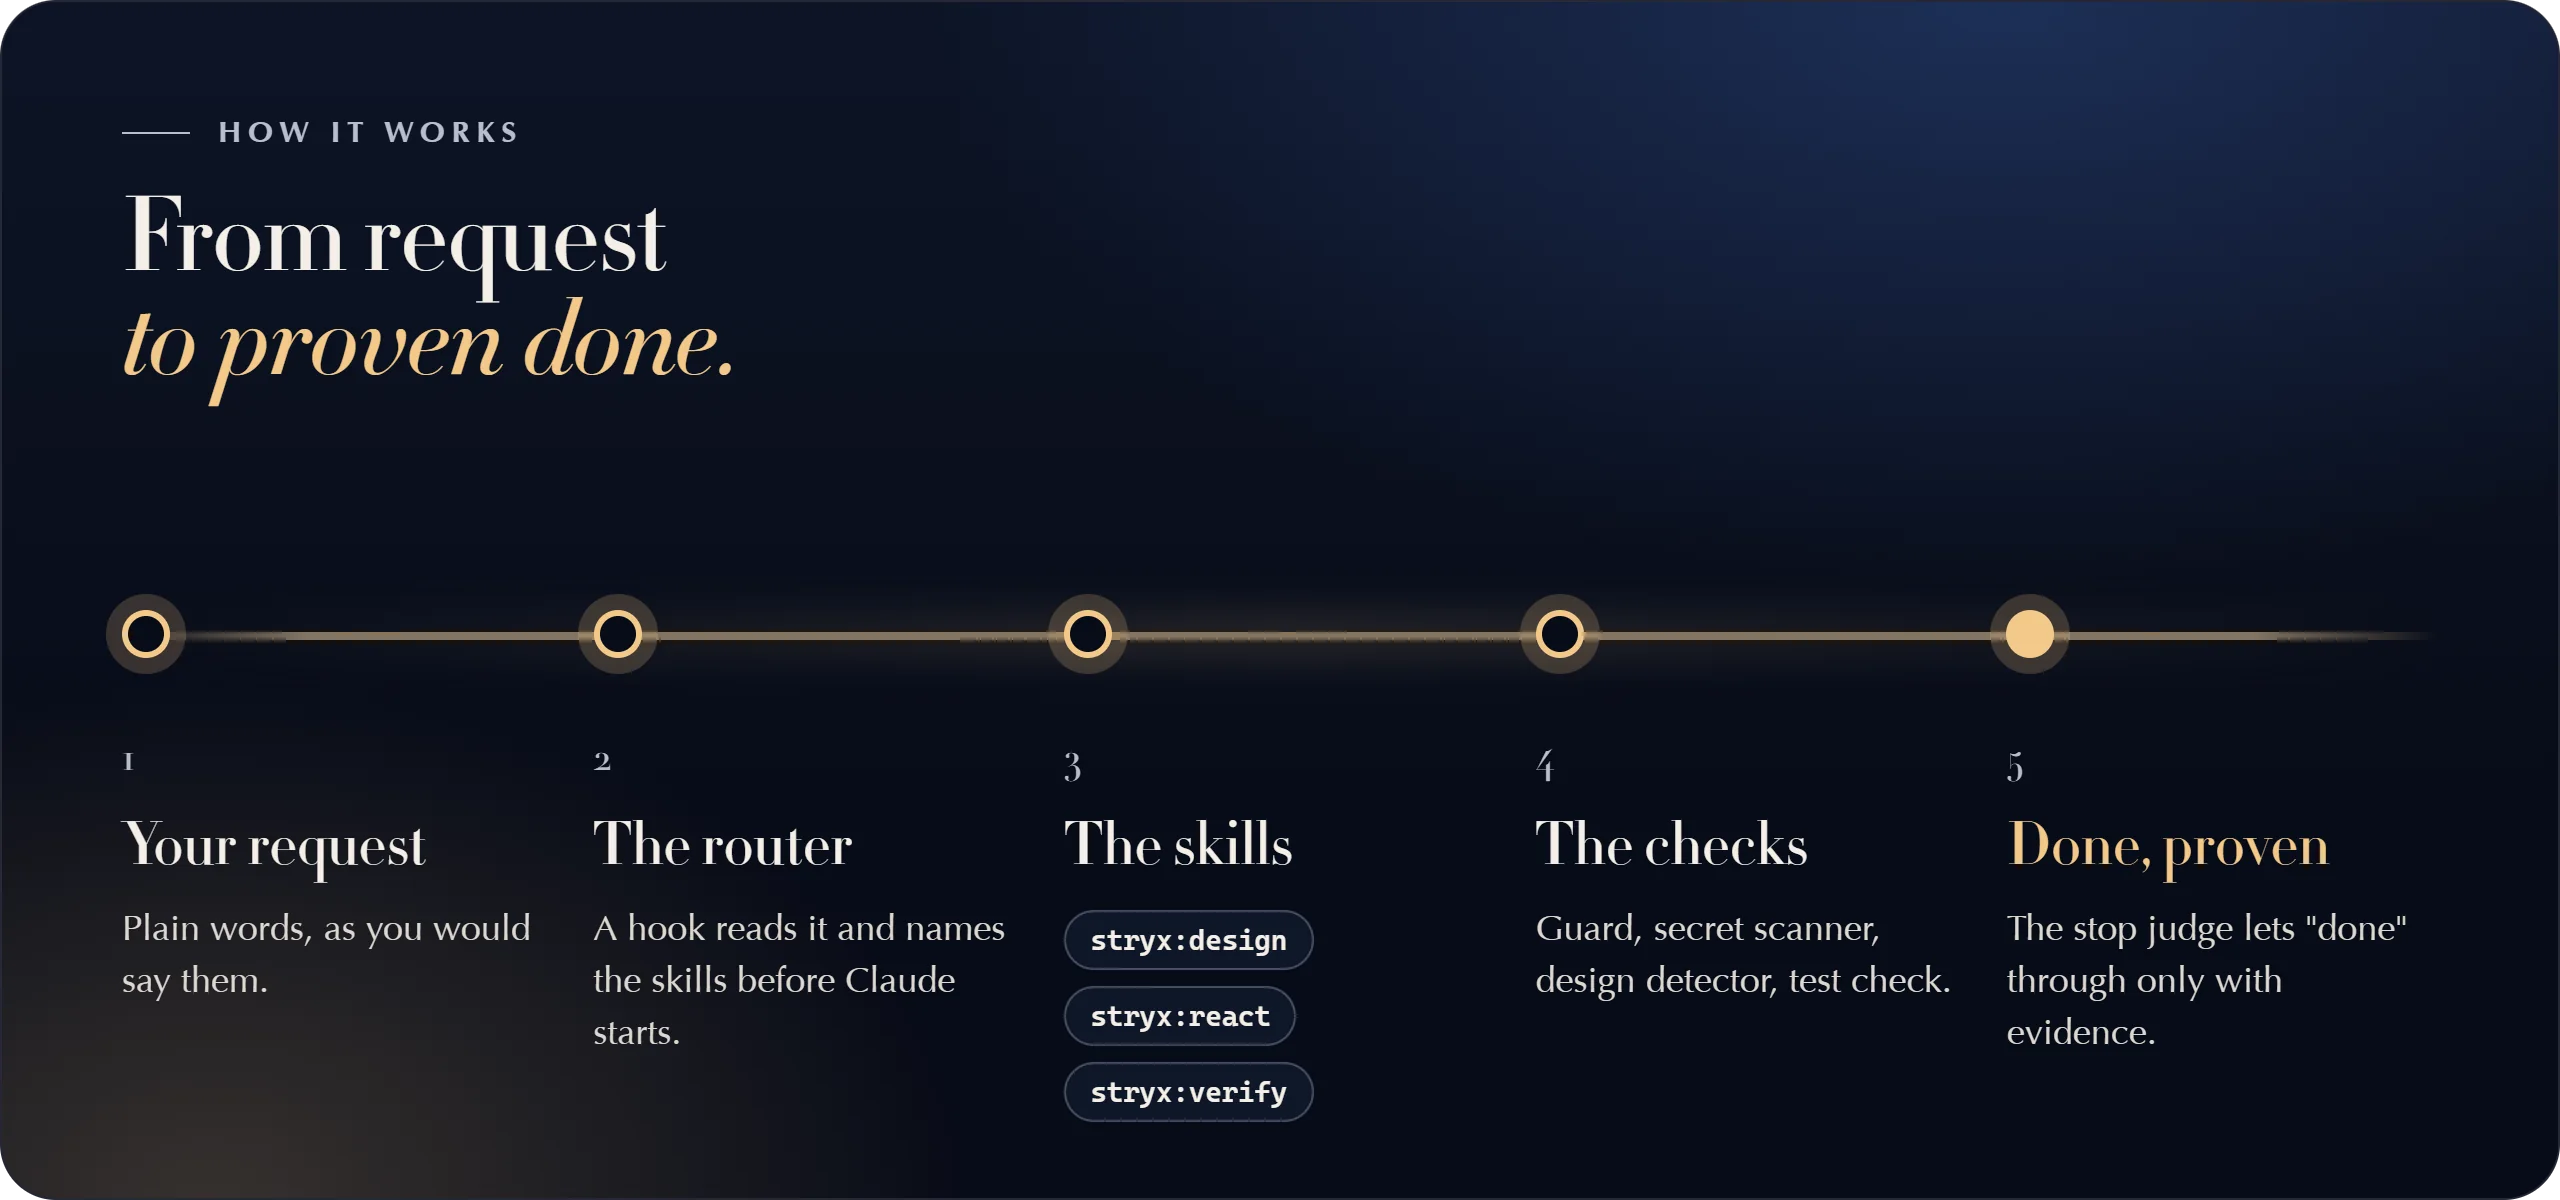
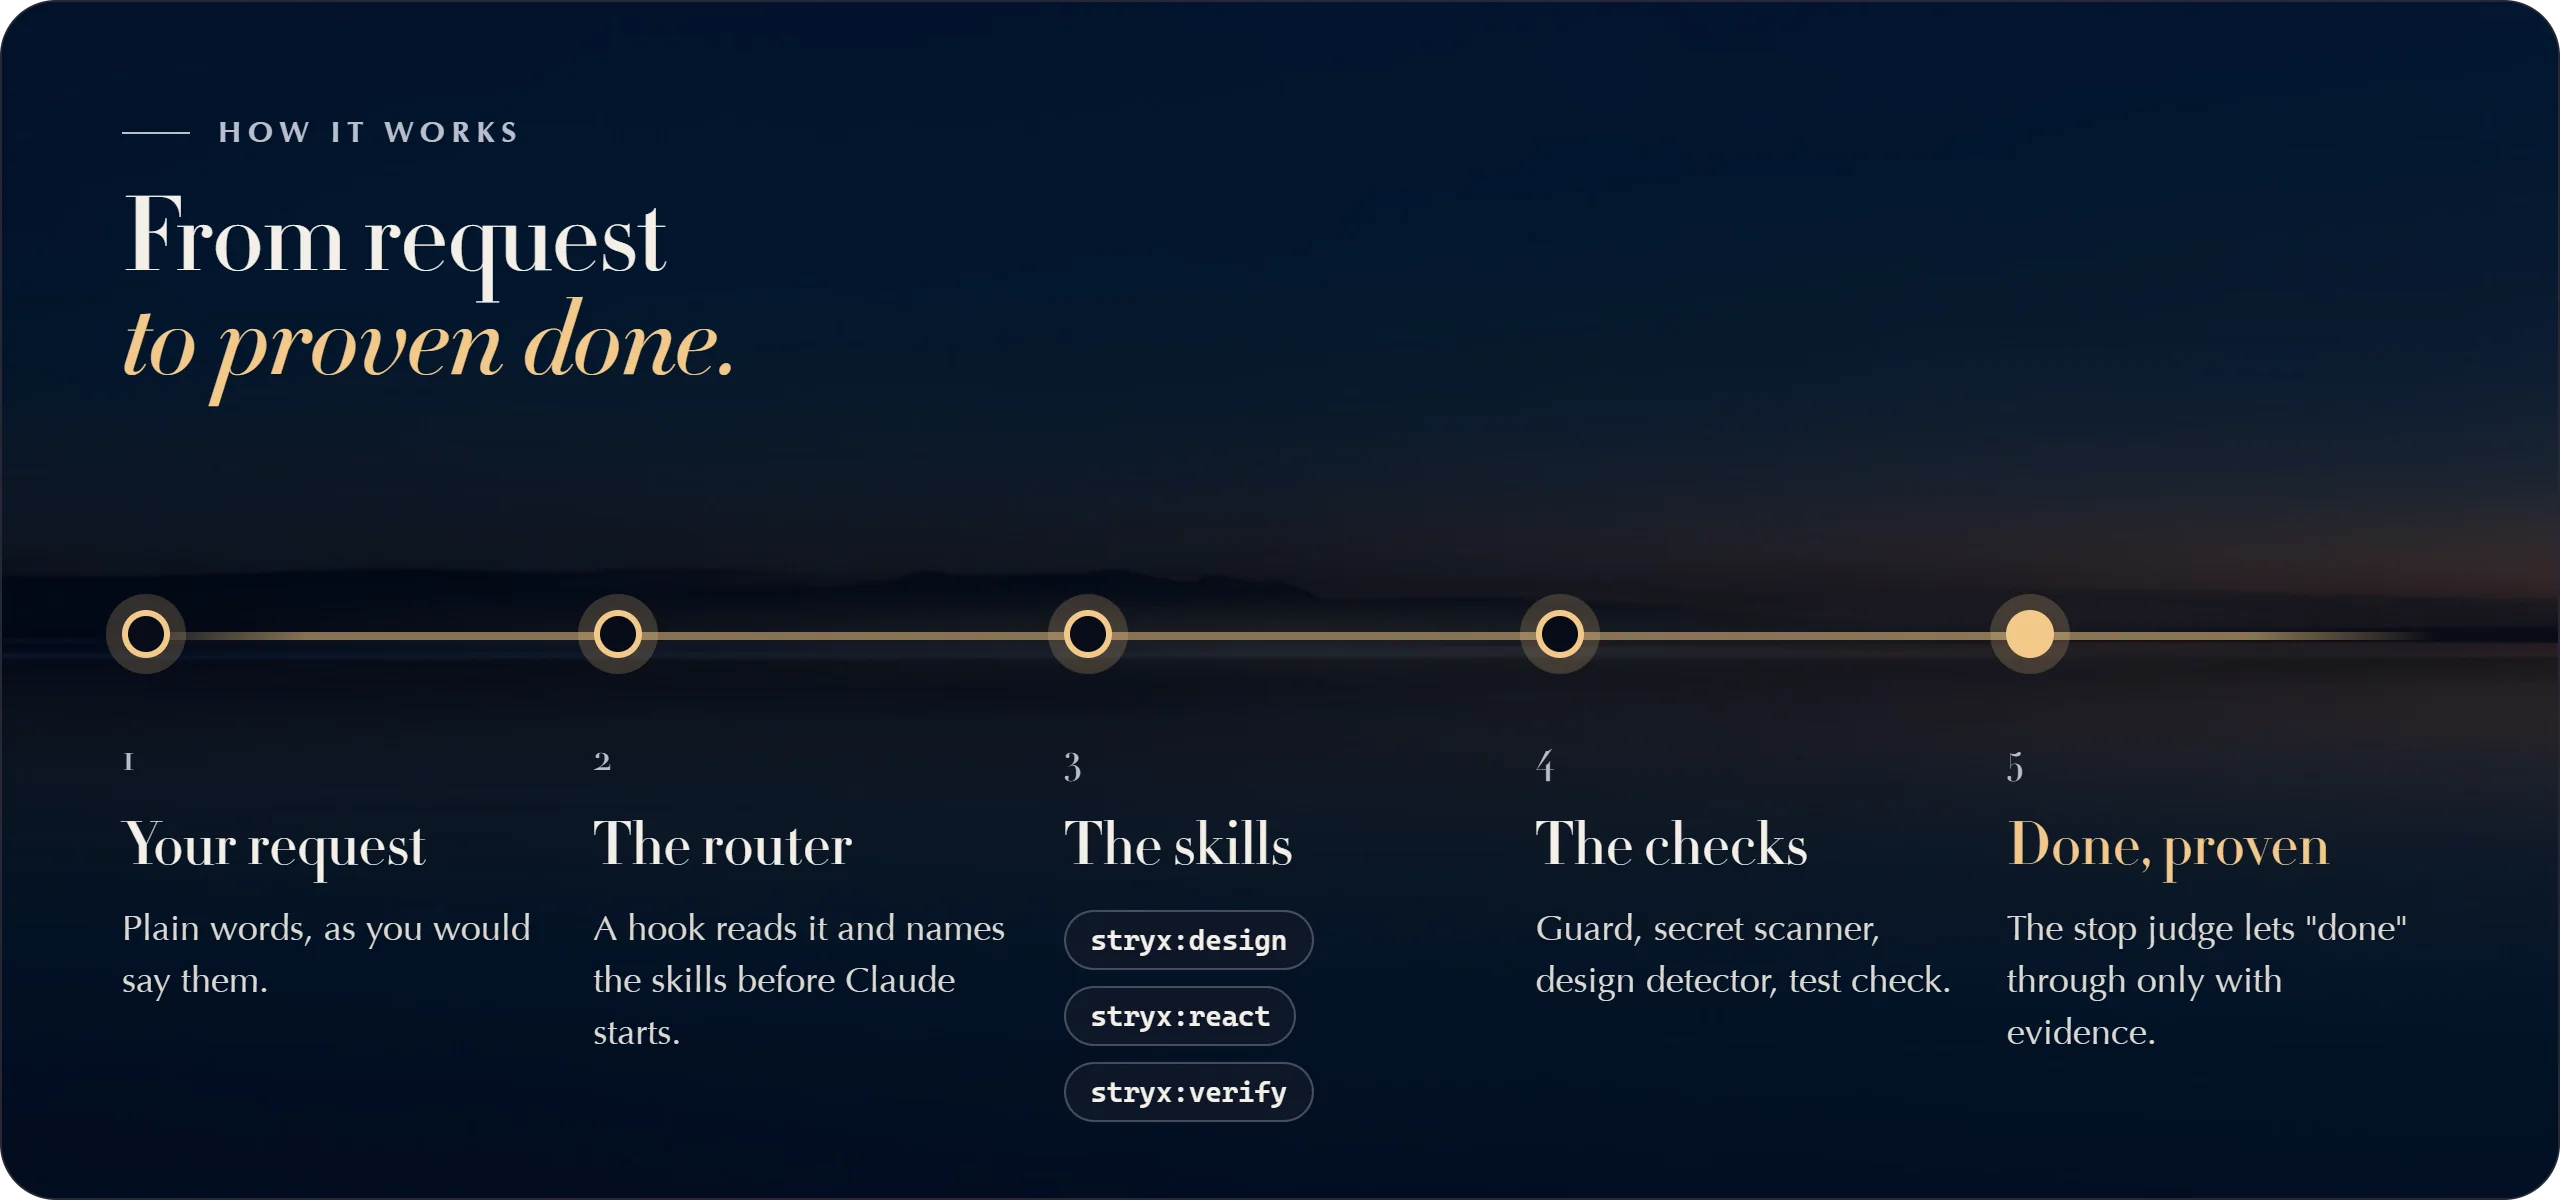
README art: painted night-lake backgrounds from the local image model
Hero, feature cards, flow and closing now sit on a GPU painting (qwen-image-2.1 q8, upscaled x4) of a tree of light beside a still lake, with all words kept as real text. Light variants wash the same painting in the paper tone; text contrast measured on the painted pixels.

Changed region(s): [[0.0, 0.74, 0.2812, 1.0], [0.625, 0.0, 0.9375, 0.1542], [0.75, 0.4008, 1.0, 0.6475]]

diff --git a/docs/assets/readme/src/art.template.html b/docs/assets/readme/src/art.template.html
@@ -19,6 +19,23 @@
       radial-gradient(42% 60% at 8% 100%, var(--color-sun-glow), transparent 72%),
       linear-gradient(180deg, var(--color-ground-2), var(--color-ground) 70%); }
   .art.frame { border-radius: 28px; border: 1px solid var(--color-line); }
+
+  /* ---------- GPU paintings as backgrounds (paint/*.jpg, made with brain make art) ---------- */
+  .bg { position: absolute; inset: 0; z-index: -1; background: var(--paint) var(--pos, center) / cover no-repeat; }
+  .bg::after { content: ""; position: absolute; inset: 0; background: var(--scrim); }
+  .dark .bg { --scrim: linear-gradient(90deg, color-mix(in oklab, var(--color-ground) 82%, transparent) 0%,
+      color-mix(in oklab, var(--color-ground) 50%, transparent) 46%, transparent 72%); }
+  /* light: the same painting, washed in the paper tone so dark text reads on it */
+  .bg { --scrim: linear-gradient(90deg, color-mix(in oklab, var(--color-ground) 97%, transparent) 0%,
+      color-mix(in oklab, var(--color-ground) 90%, transparent) 50%, color-mix(in oklab, var(--color-ground) 45%, transparent) 100%); }
+  .bg.even { --scrim: color-mix(in oklab, var(--color-ground) 93%, transparent); }
+  .dark .bg.even { --scrim: color-mix(in oklab, var(--color-ground) 35%, transparent); }
+  .hero-bg { --pos: center; }
+  .dark .hero-bg { --scrim: linear-gradient(90deg, color-mix(in oklab, var(--color-ground) 80%, transparent) 0%, color-mix(in oklab, var(--color-ground) 35%, transparent) 50%, transparent 70%),
+      linear-gradient(0deg, color-mix(in oklab, var(--color-ground) 88%, transparent) 0%, transparent 34%); }
+  .hero-bg { --scrim: linear-gradient(90deg, color-mix(in oklab, var(--color-ground) 97%, transparent) 0%, color-mix(in oklab, var(--color-ground) 88%, transparent) 52%, color-mix(in oklab, var(--color-ground) 42%, transparent) 100%),
+      linear-gradient(0deg, color-mix(in oklab, var(--color-ground) 97%, transparent) 0%, color-mix(in oklab, var(--color-ground) 80%, transparent) 30%, transparent 48%); }
+  .card { backdrop-filter: blur(14px) saturate(1.1); }
   .mono { font-family: var(--font-mono); }
   .amber { color: var(--color-sun); }
   .k { font: 700 15px/1.3 var(--font-text); letter-spacing: 0.22em; text-transform: uppercase; color: var(--color-ink-mute);
@@ -138,12 +155,13 @@
   .step .chip { font-size: 14px; padding: 7px 12px; }
 
   /* ---------- closing ---------- */
-  #closing { height: 440px; padding: 70px 72px; display: grid; grid-template-columns: 1fr 1.1fr; gap: 40px; align-items: center; }
+  #closing { height: 500px; padding: 60px 72px; display: grid; grid-template-columns: 640px; gap: 26px; align-content: center; }
+  #closing .con { width: 620px; }
   #closing h2 { font: 500 56px/1 var(--font-display); letter-spacing: -0.01em; }
   #closing h2 em { display: block; color: var(--color-sun); }
   #closing .fine2 { margin-top: 22px; font-size: 19px; white-space: nowrap; color: var(--color-ink-mute); }
   #closing .con .row { font-size: 17px; padding: 24px 22px; white-space: nowrap; }
-  #closing .btns { display: flex; gap: 14px; margin-top: 22px; }
+  #closing .btns { display: flex; gap: 14px; margin-top: 18px; }
   .pill { display: inline-flex; align-items: center; height: 58px; padding: 0 30px; border-radius: 999px; font: 700 19px/1 var(--font-text); }
   .pill.brand { background: var(--gradient-brand); color: var(--color-on-brand); }
   .pill.ghost { border: 1px solid var(--color-line-strong); color: var(--color-ink); background: var(--color-surface); }
@@ -159,7 +177,7 @@
     <h1>The lab's methods, <em>grown into one tree.</em></h1>
     <p class="lead">94 skills and 32 agents, each written for one kind of work. Claude loads the right one by itself, and nothing counts as done until a check proves it.</p>
   </div>
-  <div class="tree-box"><!--TREE--></div>
+  <div class="bg hero-bg" style="--paint:url(paint/hero.jpg)"></div>
   <div class="foot">
     <div class="spectrum"><span style="--band:var(--g0);flex:15"></span><span style="--band:var(--g1);flex:13"></span><span style="--band:var(--g2);flex:10"></span><span style="--band:var(--g3);flex:12"></span><span style="--band:var(--g4);flex:17"></span><span style="--band:var(--g5);flex:9"></span><span style="--band:var(--g6);flex:15"></span><span style="--band:var(--g7);flex:3"></span></div>
     <dl class="stats">
@@ -174,6 +192,7 @@
 
 <!-- 2. FEATURES: router + proof -->
 <section class="art frame pair" id="features-1">
+  <div class="bg even" style="--paint:url(paint/lake.jpg)"></div>
   <article class="card" style="--band:var(--g0)">
     <p class="num">01 <b>Router</b></p>
     <div class="vis">
@@ -203,6 +222,7 @@
 
 <!-- 3. FEATURES: design brain + local GPU -->
 <section class="art frame pair" id="features-2">
+  <div class="bg even" style="--paint:url(paint/lake.jpg);--pos:center 30%"></div>
   <article class="card" style="--band:var(--g2)">
     <p class="num">03 <b>Design brain</b></p>
     <div class="vis">
@@ -237,6 +257,7 @@
 
 <!-- 4. FEATURES: codewords + agents -->
 <section class="art frame pair" id="features-3">
+  <div class="bg even" style="--paint:url(paint/lake.jpg);--pos:center 70%"></div>
   <article class="card" style="--band:var(--g7)">
     <p class="num">05 <b>Codewords</b></p>
     <div class="vis">
@@ -267,6 +288,7 @@
 
 <!-- 5. FLOW -->
 <section class="art frame" id="flow">
+  <div class="bg even flow-bg" style="--paint:url(paint/lake.jpg)"></div>
   <p class="k">How it works</p>
   <h2 style="margin-top:16px">From request <em>to proven done.</em></h2>
   <div class="river"></div>
@@ -281,6 +303,7 @@
 
 <!-- 6. CLOSING -->
 <section class="art frame" id="closing">
+  <div class="bg" style="--paint:url(paint/closing.jpg)"></div>
   <div>
     <h2>Grow the tree <em>in your Claude Code.</em></h2>
     <p class="fine2">Free to use. No fee, no subscription, no key, no sign-up.</p>

diff --git a/docs/assets/readme/src/build.py b/docs/assets/readme/src/build.py
@@ -1,12 +1,7 @@
-"""Build art.html: the template plus the tree SVG copied from docs/index.html (one source for the tree)."""
-import pathlib, re
-
+"""Build art.html from art.template.html (kept as a step so the template can gain injected parts again).
+The backgrounds in paint/ were painted on the local GPU (brain make art, qwen-image-2.1 q8, seed 418, 1024x1024),
+upscaled x4 (brain make upscale, realesrgan-x4plus) and cropped: hero.jpg, lake.jpg, closing.jpg."""
+import pathlib
 here = pathlib.Path(__file__).resolve().parent
-index = (here.parents[2] / "index.html").read_text(encoding="utf-8")
-m = re.search(r'<svg class="tree".*?</svg>', index, re.S)
-if not m:
-    raise SystemExit("tree svg not found in docs/index.html")
-tree = m.group(0).replace('id="tree" ', '').replace('role="img" aria-labelledby="tree-title tree-desc" ', 'aria-hidden="true" ')
-tpl = (here / "art.template.html").read_text(encoding="utf-8")
-(here / "art.html").write_text(tpl.replace("<!--TREE-->", tree), encoding="utf-8")
-print("art.html written,", len(tree), "chars of tree")
+(here / "art.html").write_text((here / "art.template.html").read_text(encoding="utf-8"), encoding="utf-8")
+print("art.html written")
